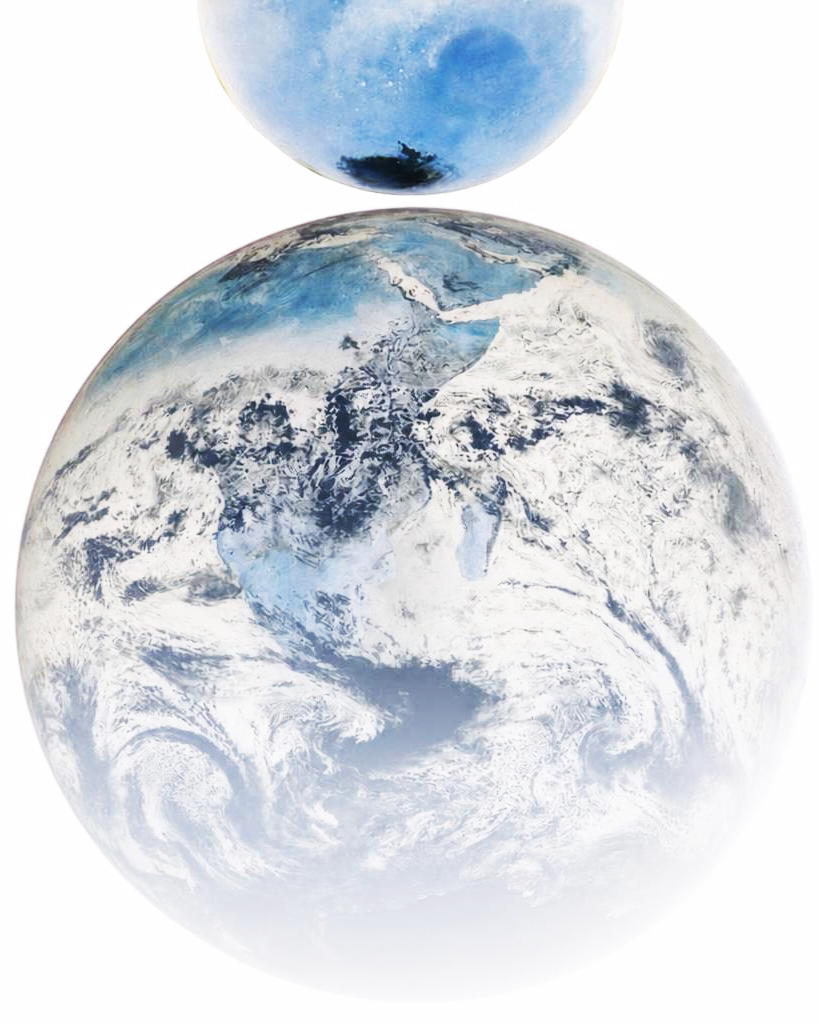
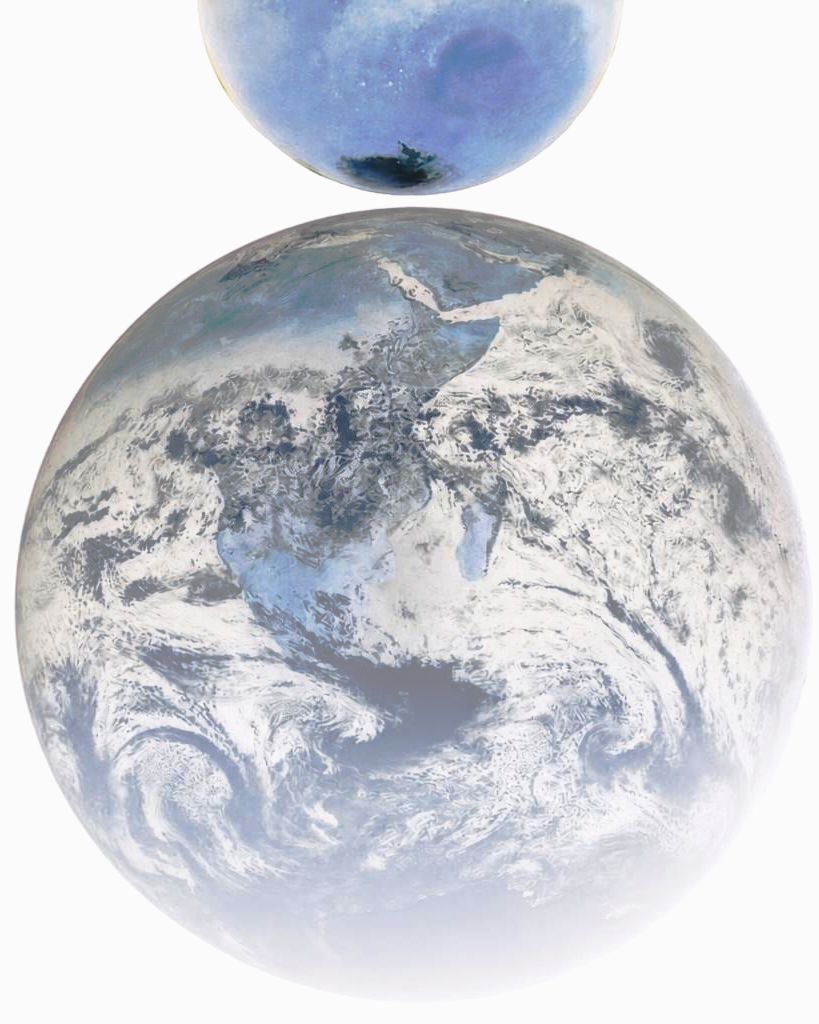
Werk vormgeving lezingflyer bij: nieuwe typografie, kleuren en bijgewerkte achtergrondafbeelding

diff --git a/flyerlezing.html b/flyerlezing.html
@@ -23,7 +23,7 @@
     width: min(700px, 100%);
     aspect-ratio: 700 / 1045;
     overflow: hidden;
-    background: #ffffff;
+    background: #fefefe;
     container-type: inline-size;
   }
 
@@ -55,11 +55,12 @@
   }
 
   .top-text {
-    font-family: 'Bebas Neue', sans-serif;
-    font-size: 2.4cqw;
+    font-family: 'Cormorant Garamond', serif;
+    font-size: 2.0cqw;
     letter-spacing: 0.38em;
     color: #ffffff;
     text-transform: uppercase;
+    text-shadow: 0 2px 40px rgba(0,0,0,0.9);
   }
 
   .title-block {
@@ -70,12 +71,13 @@
   }
 
   .to-save {
-    font-family: 'Cinzel', serif;
-    font-size: 2.5cqw;
+    font-family: 'Bebas Neue', sans-serif;
+    font-size: 3.6cqw;
     letter-spacing: 0.38em;
-    color: #000000;
+    color: #ffe282;
     text-transform: uppercase;
     margin-bottom: 0.3cqw;
+    text-shadow: 0 2px 40px rgb(0, 0, 0);
   }
 
   .imagine {
@@ -89,11 +91,11 @@
 
   .mars {
     font-family: 'Bebas Neue', sans-serif;
-    font-size: 32.8cqw;
+    font-size: 34.8cqw;
     letter-spacing: 0.10em;
     color: #000c68;
     line-height: 0.88;
-    text-shadow: 0 2px 40px rgba(0,0,0,0.9);
+    text-shadow: 0 2px 40px rgba(255, 255, 255, 0.9);
   }
 
   .rule {
@@ -139,7 +141,7 @@
       margin: 0;
       padding: 0;
       height: 100%;
-      background: #ffffff;
+      background: #cecdcd;
       -webkit-print-color-adjust: exact;
       print-color-adjust: exact;
     }
@@ -165,17 +167,17 @@
     onerror="if(!this.dataset.fallback){this.dataset.fallback='1';this.src='https://www.vbbskw.com/Aardemarsinverted.png';}">
   <div class="overlay"></div>
   <div class="content">
-    <div class="top-text">Een &nbsp;&middot;&nbsp; VBBSKW &nbsp;&middot;&nbsp; & <br> wijkplatform Zee- en <br> Duinwijk Initiatief</div>
+    <div class="top-text">Een VBBSKW Initiatief</div>
     <div class="title-block">
-      <div class="to-save"><b><br><br>Om de democratie te redden,</b></div>
+      <div class="to-save"><b><b><br>&nbsp;<br>&nbsp;-om de democratie te redden-</b></b></div>
       <div class="imagine">Beginnen we</div>
       <div class="mars">KLEIN</div>
       <div class="rule"></div>
-      <div class="subtitle">Hoe Burgerberaden polarisatie tegengaan, <br> de stem van de burger échte legitimiteit geeft,<br> en een mandaat waardig is</div>
+      <div class="subtitle">Hoe Burgerberaden polarisatie tegengaan, <br> de burgerstem échte legitimiteit geeft,<br> en zeggenschap verdient</div>
     </div>
     <div class="bottom">
-      <div class="bottom-rule"></div>
-      <div class="org">Spreker: <br> R.G.C. Hoek</div>
+      
+      <div class="org"> <br> </div>
     </div>
   </div>
 </div>
